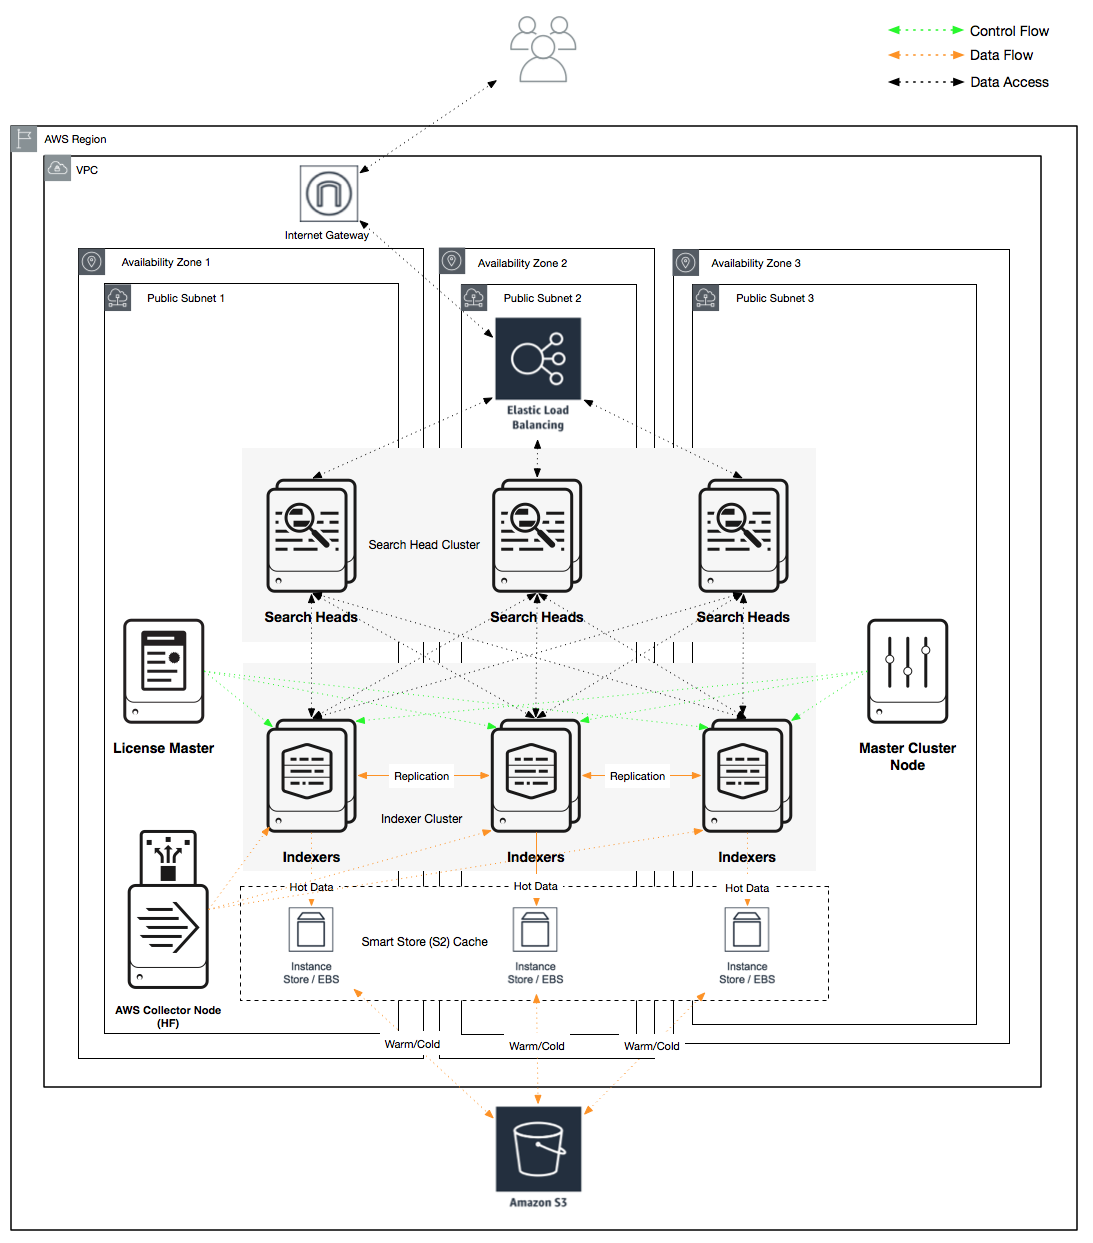
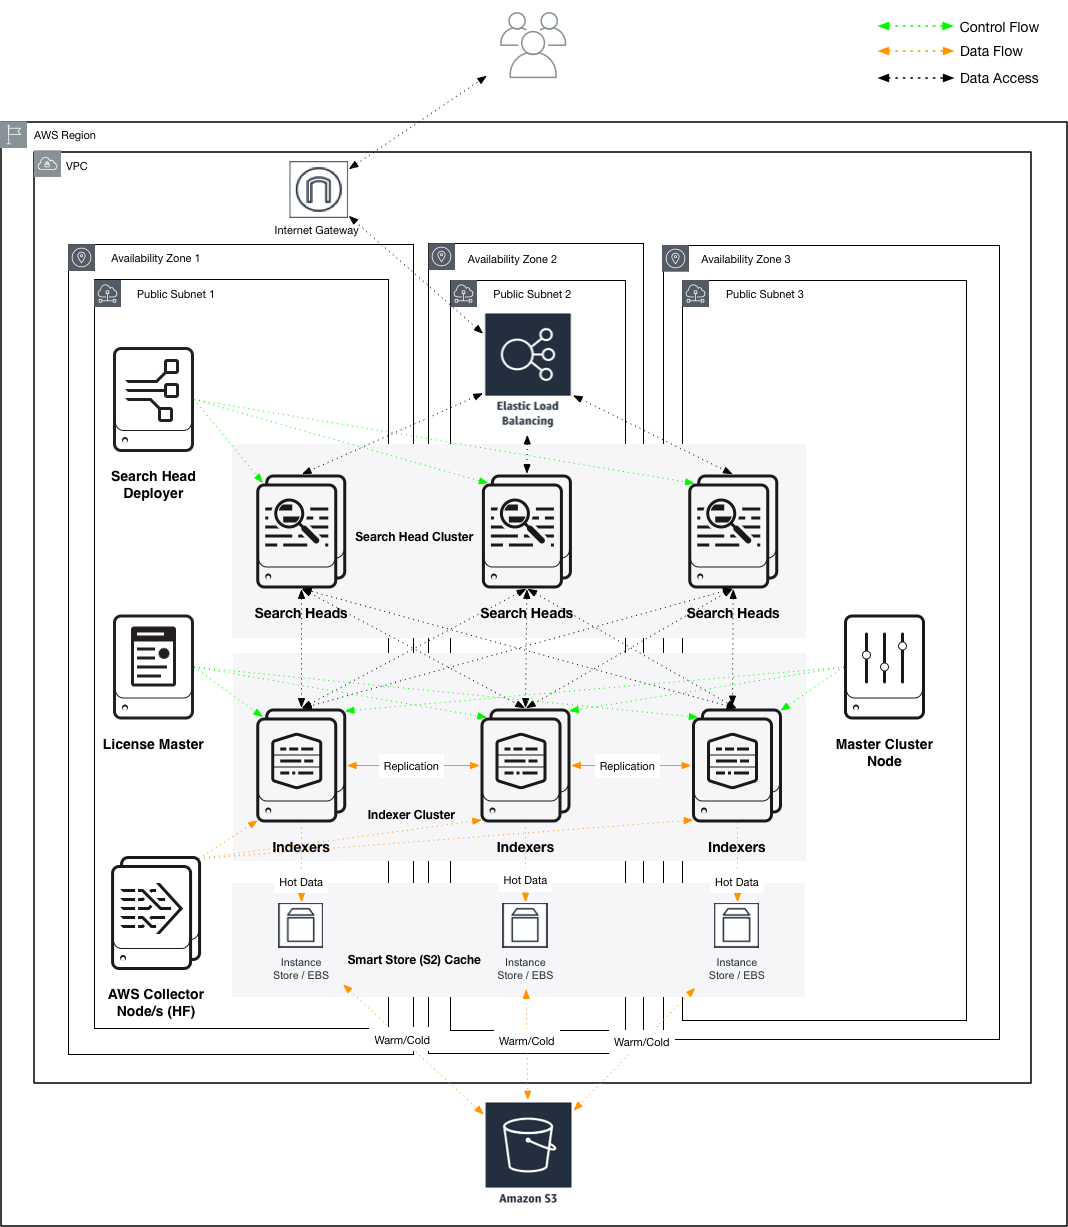
corrected s3 storage calculations

diff --git a/src/Projects/SplunkPricing/utils.js b/src/Projects/SplunkPricing/utils.js
@@ -358,10 +358,12 @@ export async function priceSplunkDeployment(params) {
 
   const dataRetention = dataRetentionHot + dataRetentionCold;
 
+  const s3DataRetention = dataRetention / params.replicationFactor; // removing replication
+
   var s3Price = 0;
   if (splunkArchitecture === 'Smart Store (S2)') {
     s3Price = await getS3Price(
-      dataRetention,
+      s3DataRetention, // removing replication factor
       params.s3VolumeType,
       params.location
     );
@@ -371,9 +373,9 @@ export async function priceSplunkDeployment(params) {
       type: s3Price.sku.product.attributes.volumeType,
       category: 'Warm / Cold',
       size:
-        dataRetention / 1000 > 1
-          ? dataRetention / 1000 + ' TB'
-          : dataRetention + ' GB',
+        s3DataRetention / 1000 > 1
+          ? s3DataRetention / 1000 + ' TB'
+          : s3DataRetention + ' GB',
       monthly: s3Price.price
     };
     storageResources.push(storageResource);
@@ -454,6 +456,21 @@ export async function priceSplunkDeployment(params) {
     name: 'License Master',
     count: licenseMasterCount,
     price: licenseMasterPrice,
+    rootVolume: 30
+  });
+
+  var deployerCount = 1;
+  const deployerPrice = await getEc2Price(
+    deployerCount,
+    params.licenseMasterInstanceType,
+    params.operatingSystem,
+    params.location,
+    params.billingOption
+  );
+  computeResources.push({
+    name: 'Search Head Deployer',
+    count: deployerCount,
+    price: deployerPrice,
     rootVolume: 30
   });
 

diff --git a/src/Projects/SplunkPricing/components/ArchitecturePanel.js b/src/Projects/SplunkPricing/components/ArchitecturePanel.js
@@ -1,5 +1,4 @@
 import React from 'react';
-import { Link } from 'react-router-dom';
 import PropTypes from 'prop-types';
 import { withStyles } from '@material-ui/core/styles';
 import ExpansionPanel from '@material-ui/core/ExpansionPanel';
@@ -43,7 +42,7 @@ function ArchitecturePanel(props) {
         <ExpansionPanelSummary expandIcon={<ExpandMoreIcon />}>
           <DescriptionIcon fontSize="small" />
           <Typography className={classes.expansionPanelHeading}>
-            Splunk Architecture
+            Architecture on AWS
           </Typography>
         </ExpansionPanelSummary>
         <ExpansionPanelDetails>
@@ -56,7 +55,7 @@ function ArchitecturePanel(props) {
                   variant="contained"
                   className={classes.button}
                 >
-                  Deploy Quickstart
+                  Deploy
                 </Button>
               </div>
             </Grid>

diff --git a/src/Projects/SplunkPricing/index.js b/src/Projects/SplunkPricing/index.js
@@ -552,7 +552,7 @@ class SplunkPricing extends Component {
                 <ExpansionPanelSummary expandIcon={<ExpandMoreIcon />}>
                   <SettingsIcon fontSize="small" />
                   <Typography className={classes.expansionPanelHeading}>
-                    Advanced Settings
+                    Change Default Settings
                   </Typography>
                 </ExpansionPanelSummary>
                 <ExpansionPanelDetails>
